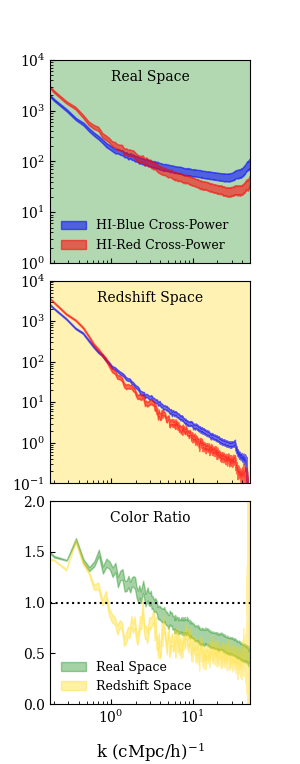
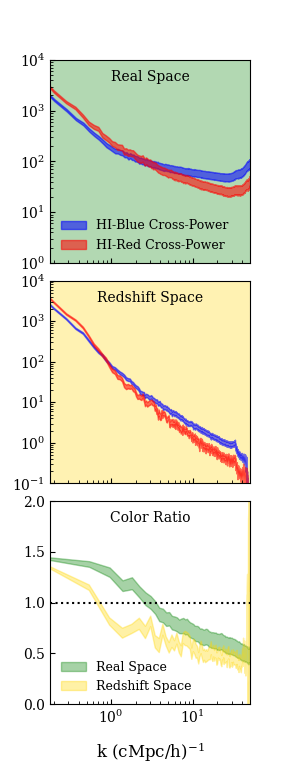
new figs

Changed region(s): [[0.15, 0.6924, 0.84, 0.9031], [0.81, 0.6623, 0.84, 0.7827]]

diff --git a/fig_md_analysis/redvsblue/redvsblue.py b/fig_md_analysis/redvsblue/redvsblue.py
@@ -50,7 +50,6 @@ def color_compare(ip, smooth, savename):
     rob = flib.makeBlueRedRatio(dl)
     robdl = DataList(rob)
     
-    robdl.setFunc({'figrid_process':'fill'}, _smooth)
     
     fgrob = Figrid(robdl)
     fgrob.arrange('ratio', 'is_particle', panel_length = 2)
@@ -62,8 +61,14 @@ def color_compare(ip, smooth, savename):
     fkw['label'] = 'Redshift Space'
     fkw['color'] = redshift_color
     fgrob.makeFills({'space':'redshift'}, fkw)
-
-
+    
+    fgrob.setFunc({'figrid_process':'fill'}, _smooth)
+    fgrob.plot()
+    axparams = {}
+    axparams['xscale'] = 'log'
+    axparams['ylim'] = [0, 2]
+    fgrob.setAxisParams(axparams)
+    fgrob.save(savename + 'ratio_only.png')
     dl = DataList(master.getMatching(ip))
     fg = Figrid(dl)
     fg.setColOrder(['real', 'redshift'])
@@ -158,7 +163,7 @@ def smooth_compare(smooth_vals):
 
 ip = {'color':['red', 'blue']}
 
-smooth_vals = [1, 5]
+smooth_vals = [1, 5, 10]
 for smooth_val in smooth_vals:
     for ss in [99, 67]:
         ip['snapshot'] = ss
